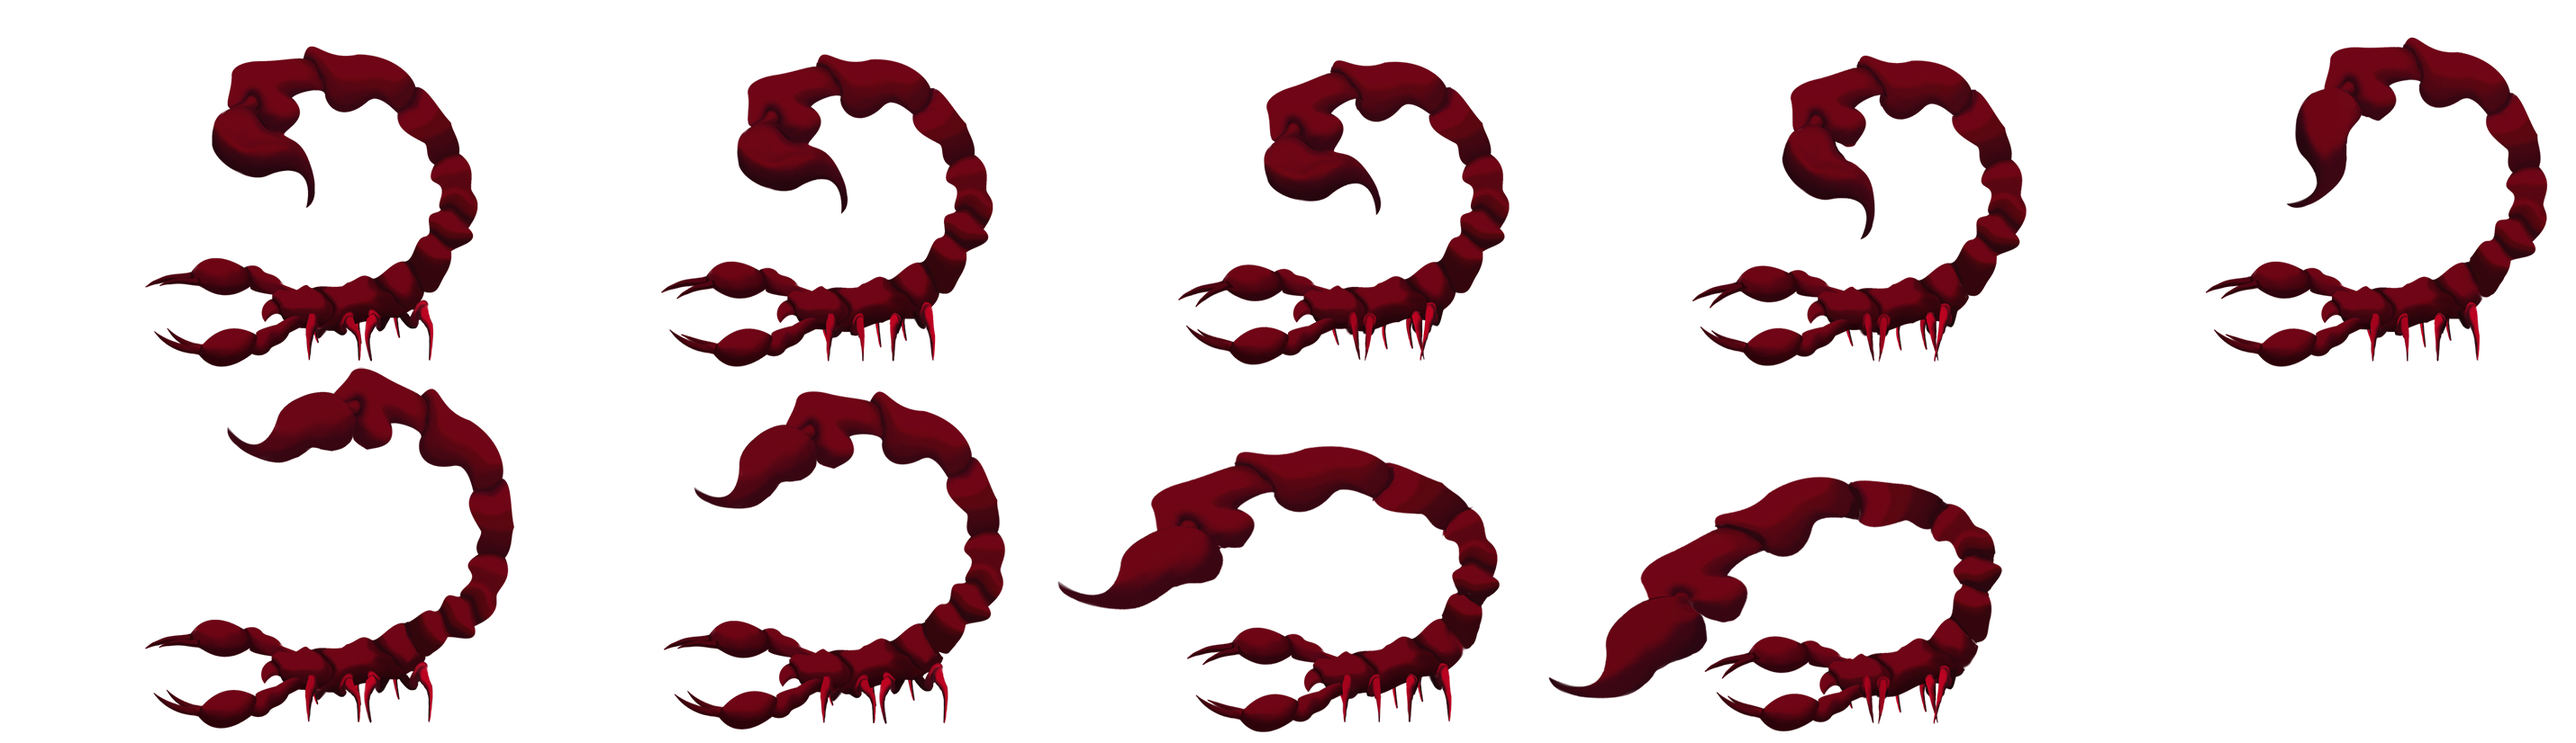
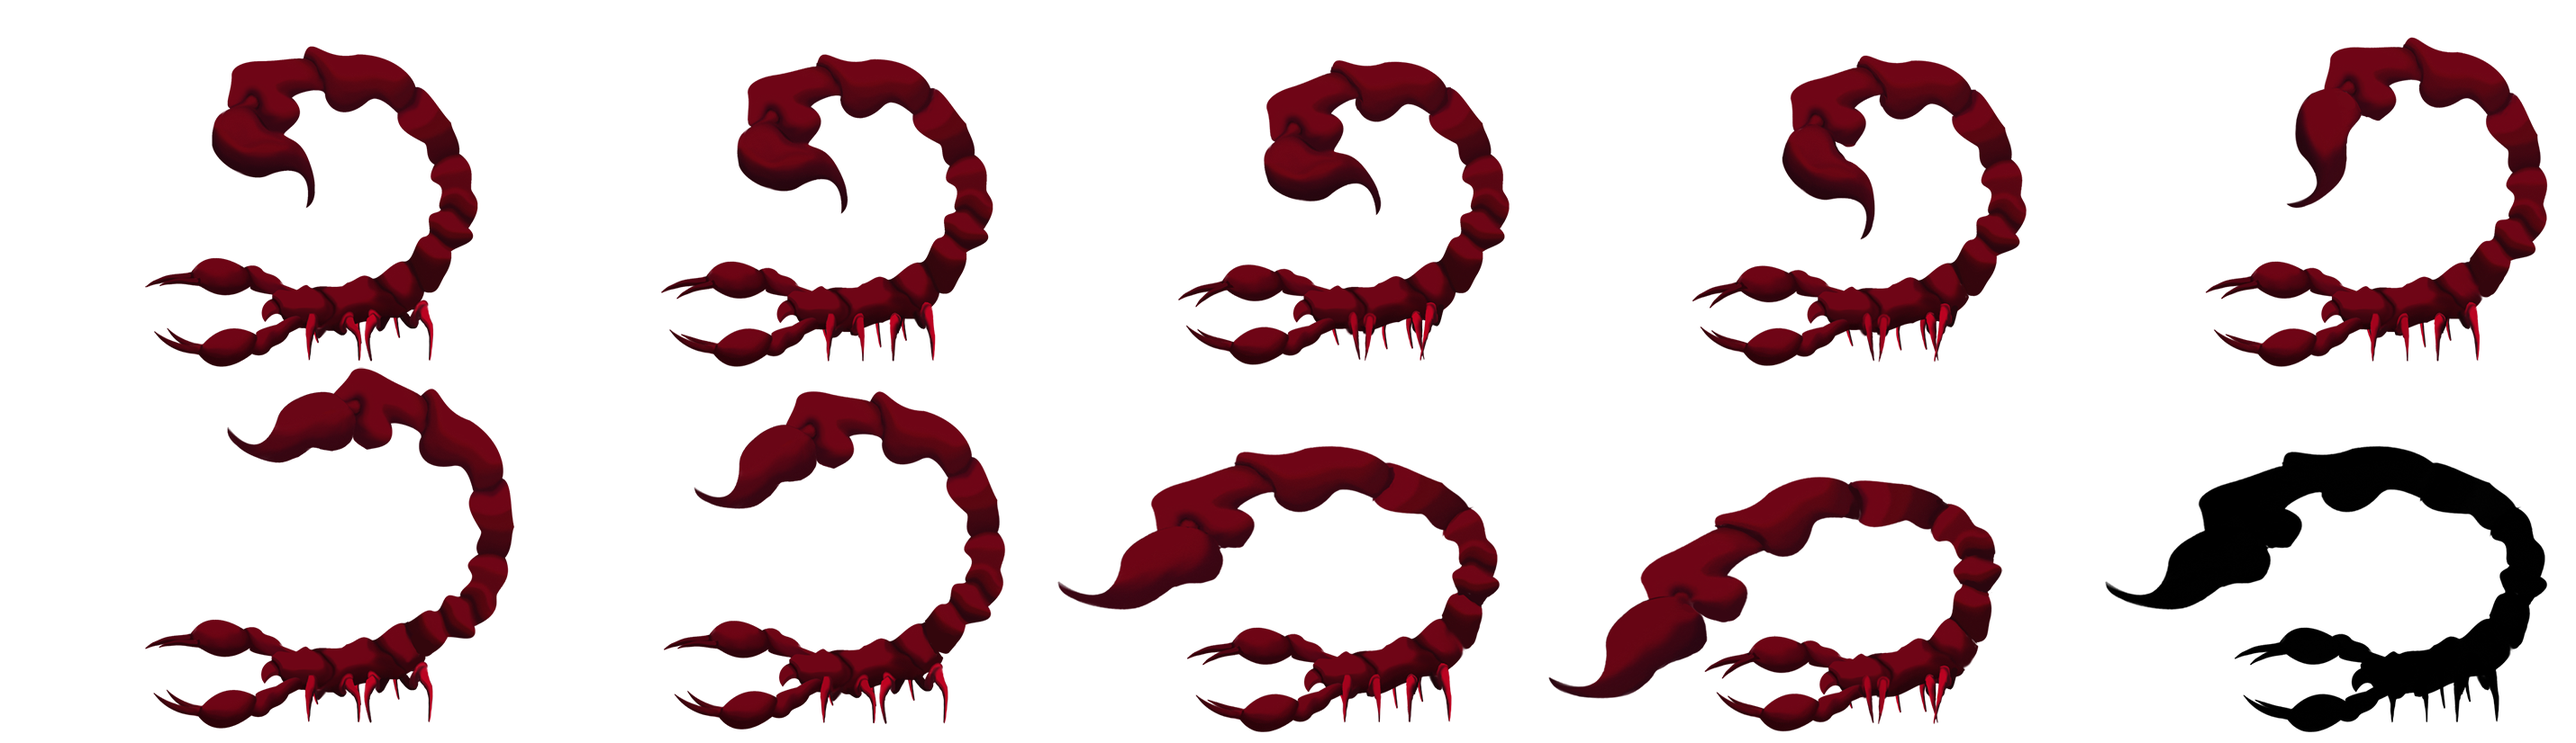
Changed a lot of assets and modified the settings for the final bosses

Changed region(s): [[0.8091, 0.6053, 0.9958, 0.9988]]

diff --git a/core/src/mx/com/nullpointer/screens/LoadingScreen.java b/core/src/mx/com/nullpointer/screens/LoadingScreen.java
@@ -273,7 +273,7 @@ public class LoadingScreen extends GenericScreen {
                 assetManager.load("map/clouds_tres.png",Texture.class);
                 assetManager.load("map/bookThreeF.png",Texture.class);
                 //Laurence win, loose
-                assetManager.load("characters/laurence_burned.png",Texture.class);
+                assetManager.load("characters/laurence_poisoned.png",Texture.class);
                 assetManager.load("characters/laurence_celebrating_three.png", Texture.class);
                 assetManager.load("characters/laurence_falling_three.png", Texture.class);
 
@@ -289,7 +289,7 @@ public class LoadingScreen extends GenericScreen {
                 assetManager.load("map/clouds_tres.png",Texture.class);
                 assetManager.load("map/bookThreeF.png",Texture.class);
                 //Laurence win, loose
-                assetManager.load("characters/laurence_burned.png",Texture.class);
+                assetManager.load("characters/laurence_poisoned.png",Texture.class);
                 assetManager.load("characters/laurence_celebrating_three.png", Texture.class);
                 assetManager.load("characters/laurence_falling_three.png", Texture.class);
                 //Normal things to load
@@ -304,7 +304,7 @@ public class LoadingScreen extends GenericScreen {
                 assetManager.load("map/clouds_tres.png",Texture.class);
                 assetManager.load("map/bookThreeF.png",Texture.class);
                 //Laurence win, loose
-                assetManager.load("characters/laurence_burned.png",Texture.class);
+                assetManager.load("characters/dinosaur_loose.png",Texture.class);
                 assetManager.load("characters/laurence_celebrating_three.png", Texture.class);
                 assetManager.load("characters/laurence_falling_three.png", Texture.class);
                 //Final boss

diff --git a/core/src/mx/com/nullpointer/inanotherkingdom/Scorpion.java b/core/src/mx/com/nullpointer/inanotherkingdom/Scorpion.java
@@ -10,7 +10,8 @@ import com.badlogic.gdx.graphics.g2d.TextureRegion;
 public class Scorpion extends Enemy{
     protected int life = 200;
     protected Animation attackAnimation;
-    protected boolean attack = false;
+    protected Animation damageAnimation;
+    protected boolean attack = false, damaged= false;
     public Scorpion(Texture texture, float x, float y)
     {
         //Animación de correr
@@ -25,9 +26,11 @@ public class Scorpion extends Enemy{
         attackAnimation = new Animation(0.1f,
                 characterTexture[0][4],characterTexture[1][0], characterTexture[1][1],characterTexture[1][2],characterTexture[1][3],characterTexture[1][2],characterTexture[1][1], characterTexture[1][0] );
         attackAnimation.setPlayMode(Animation.PlayMode.LOOP);
+        damageAnimation = new Animation(0.1f,characterTexture[1][4],characterTexture[1][2]);
+        damageAnimation.setPlayMode(Animation.PlayMode.LOOP);
         timerAnimation=0;
 
-        this.x= x;
+        this.x= x-20;
         this.y=y;
         sprite = new Sprite(characterTexture[0][0]);
         sprite.setPosition(this.x,this.y);
@@ -44,6 +47,8 @@ public class Scorpion extends Enemy{
     {
         life-=damage;
         attack=false;
+        damaged= true;
+        timerAnimation=0;
     }
 
     public void attack() {
@@ -56,7 +61,15 @@ public class Scorpion extends Enemy{
     {
         timerAnimation+=delta;
         TextureRegion region;
-        if(attack)
+        if(damaged)
+        {
+            region = (TextureRegion) damageAnimation.getKeyFrame(timerAnimation);
+            if(timerAnimation >0.4f)
+            {
+                damaged= false;
+                timerAnimation=0;
+            }
+        }else if(attack)
         {
             region = (TextureRegion) attackAnimation.getKeyFrame(timerAnimation);
             if(timerAnimation>0.1f*8)

diff --git a/core/src/mx/com/nullpointer/inanotherkingdom/Dragon.java b/core/src/mx/com/nullpointer/inanotherkingdom/Dragon.java
@@ -3,10 +3,13 @@ package mx.com.nullpointer.inanotherkingdom;
 import com.badlogic.gdx.graphics.Texture;
 import com.badlogic.gdx.graphics.g2d.Animation;
 import com.badlogic.gdx.graphics.g2d.Sprite;
+import com.badlogic.gdx.graphics.g2d.SpriteBatch;
 import com.badlogic.gdx.graphics.g2d.TextureRegion;
 
 public class Dragon extends Enemy {
     protected int life = 100;
+    protected  Animation damageAnimation;
+    protected boolean damageR=false;
     public Dragon(Texture texture, float x, float y)
     {
         //Animación de correr
@@ -20,6 +23,8 @@ public class Dragon extends Enemy {
                         characterTexture[0][4],characterTexture[0][3],characterTexture[0][2],characterTexture[0][1]);
         animation.setPlayMode(Animation.PlayMode.LOOP);
         timerAnimation=0;
+        damageAnimation = new Animation(0.1f,characterTexture[0][5], characterTexture[0][0]);
+        damageAnimation.setPlayMode(Animation.PlayMode.LOOP);
 
         this.x= x;
         this.y=y;
@@ -33,6 +38,28 @@ public class Dragon extends Enemy {
     public void receiveDamage(int damage)
     {
         life-=damage;
+        this.damageR= true;
+        timerAnimation=0;
+    }
+    @Override
+    public void render(SpriteBatch batch, float delta)
+    {
+        timerAnimation+=delta;
+        TextureRegion region;
+        if(damageR)
+        {
+            region = (TextureRegion) damageAnimation.getKeyFrame(timerAnimation);
+            if(timerAnimation>0.4f)
+            {
+                timerAnimation=0;
+                damageR=false;
+            }
+        }else {
+            region = (TextureRegion) animation.getKeyFrame(timerAnimation);
+        }
+
+        batch.draw(region,x,y);
+        sprite.setPosition(x,y);
     }
 
 }

diff --git a/core/src/mx/com/nullpointer/inanotherkingdom/LongWeapon.java b/core/src/mx/com/nullpointer/inanotherkingdom/LongWeapon.java
@@ -12,9 +12,8 @@ public class LongWeapon extends GameObject{
     private Animation animation;
     public boolean isBad;
     private float x,y;
-    private Preferences prefs = Gdx.app.getPreferences("Settings");
-    private float VX =-600*prefs.getInteger("Difficulty",400)/400;
-    private float VY = -220*prefs.getInteger("Difficulty",400)/400;
+    private float VX =-600;
+    private float VY = -220;
     private boolean fight;
     public LongWeapon(Texture bad, Texture good, float x, float y ,float maxX, boolean fight)
     {
@@ -31,6 +30,14 @@ public class LongWeapon extends GameObject{
         else
             this.y = y;
         sprite.setPosition(this.x,y);
+        Preferences prefs = Gdx.app.getPreferences("Settings");
+        switch (prefs.getInteger("Difficulty",400))
+        {
+            case 500:
+                VX*=1.3;
+                VY*=1.3;
+                break;
+        }
     }
     public void changeDirection()
     {

diff --git a/core/src/mx/com/nullpointer/levels/LevelSeven.java b/core/src/mx/com/nullpointer/levels/LevelSeven.java
@@ -25,7 +25,7 @@ public class LevelSeven extends GenericLevel {
         //Load Textures
         loadTextures();
         //Win and loose
-        loadWinLooseTextures("characters/laurence_falling_three.png","characters/laurence_celebrating_three.png","characters/laurence_burned.png");
+        loadWinLooseTextures("characters/laurence_falling_three.png","characters/laurence_celebrating_three.png","characters/laurence_poisoned.png");
 
 
         //Load Character
@@ -225,7 +225,7 @@ public class LevelSeven extends GenericLevel {
         assetManager.unload("map/bookThreeBg.png");
         assetManager.unload("map/clouds_tres.png");
 
-        assetManager.unload("characters/laurence_burned.png");
+        assetManager.unload("characters/laurence_poisoned.png");
         assetManager.unload("characters/laurence_celebrating_three.png");
         assetManager.unload("characters/laurence_falling_three.png");
         //Generic dispose

diff --git a/core/src/mx/com/nullpointer/levels/LevelEight.java b/core/src/mx/com/nullpointer/levels/LevelEight.java
@@ -38,7 +38,7 @@ public class LevelEight extends GenericLevel {
         //Load Textures
         loadTextures();
         //Win and loose
-        loadWinLooseTextures("characters/laurence_falling_three.png","characters/laurence_celebrating_three.png","characters/laurence_burned.png");
+        loadWinLooseTextures("characters/laurence_falling_three.png","characters/laurence_celebrating_three.png","characters/dinosaur_loose.png");
 
         //Load Character
         loadCharacter();
@@ -360,7 +360,7 @@ public class LevelEight extends GenericLevel {
         assetManager.unload("map/bookThreeBg.png");
         assetManager.unload("map/clouds_tres.png");
 
-        assetManager.unload("characters/laurence_burned.png");
+        assetManager.unload("characters/dinosaur_loose.png");
         assetManager.unload("characters/laurence_celebrating_three.png");
         assetManager.unload("characters/laurence_falling_three.png");
 

diff --git a/core/src/mx/com/nullpointer/levels/LevelSix.java b/core/src/mx/com/nullpointer/levels/LevelSix.java
@@ -25,7 +25,7 @@ public class LevelSix extends GenericLevel {
         //Load Textures
         loadTextures();
         //Win and loose
-        loadWinLooseTextures("characters/laurence_falling_three.png","characters/laurence_celebrating_three.png","characters/laurence_burned.png");
+        loadWinLooseTextures("characters/laurence_falling_three.png","characters/laurence_celebrating_three.png","characters/laurence_poisoned.png");
 
 
         //Load Character
@@ -225,7 +225,7 @@ public class LevelSix extends GenericLevel {
         assetManager.unload("map/bookThreeBg.png");
         assetManager.unload("map/clouds_tres.png");
 
-        assetManager.unload("characters/laurence_burned.png");
+        assetManager.unload("characters/laurence_poisoned.png");
         assetManager.unload("characters/laurence_celebrating_three.png");
         assetManager.unload("characters/laurence_falling_three.png");
 

diff --git a/core/src/mx/com/nullpointer/levels/LevelFive.java b/core/src/mx/com/nullpointer/levels/LevelFive.java
@@ -169,7 +169,7 @@ public class LevelFive extends GenericLevel {
             finalBoss.render(batch,delta);
             if(!finalBoss.isAttacking()) {
                 timerEnemy += delta;
-                if(timerEnemy>1)
+                if(timerEnemy>1.5)
                 {
                     timerEnemy=0;
                     finalBoss.attack();
@@ -244,10 +244,13 @@ public class LevelFive extends GenericLevel {
         checkCoins(cx,cy,layer);
         checkEnemies();
         updateMummies(layer,delta);
-        if(laurence.getX()<MAP_WIDTH - 7*WIDTH /8 || finalBoss.isDead())
+        if(laurence.getX()<MAP_WIDTH - WIDTH /2 || finalBoss.isDead())
             laurence.move(layer,delta, cx, cy);
-        else
-            fightStart= true;
+        else if(!fightStart) {
+                fightStart= true;
+                timerEnemy=0;
+        }
+
         winOrLoose();
     }
 

diff --git a/core/src/mx/com/nullpointer/levels/LevelTwo.java b/core/src/mx/com/nullpointer/levels/LevelTwo.java
@@ -255,7 +255,7 @@ public class LevelTwo extends GenericLevel {
                     weapon.changeDirection();
                     friendlyFireList.add(weapon);
                     fireList.removeIndex(index);
-                }else{
+                }else if(laurence.getMovementState() == MainCharacter.MovementState.RUNNING){
 
                     loose();
                 }

diff --git a/core/src/mx/com/nullpointer/inanotherkingdom/MainCharacter.java b/core/src/mx/com/nullpointer/inanotherkingdom/MainCharacter.java
@@ -312,6 +312,7 @@ public class MainCharacter extends GameObject
             movementState = MovementState.RUNNING;
             timerAction=0;
             timerRunning=0;
+            this.x-=18;
         }
         TextureRegion region = (TextureRegion) attackingAnimation.getKeyFrame(timerAction);
         batch.draw(region, x, y);
